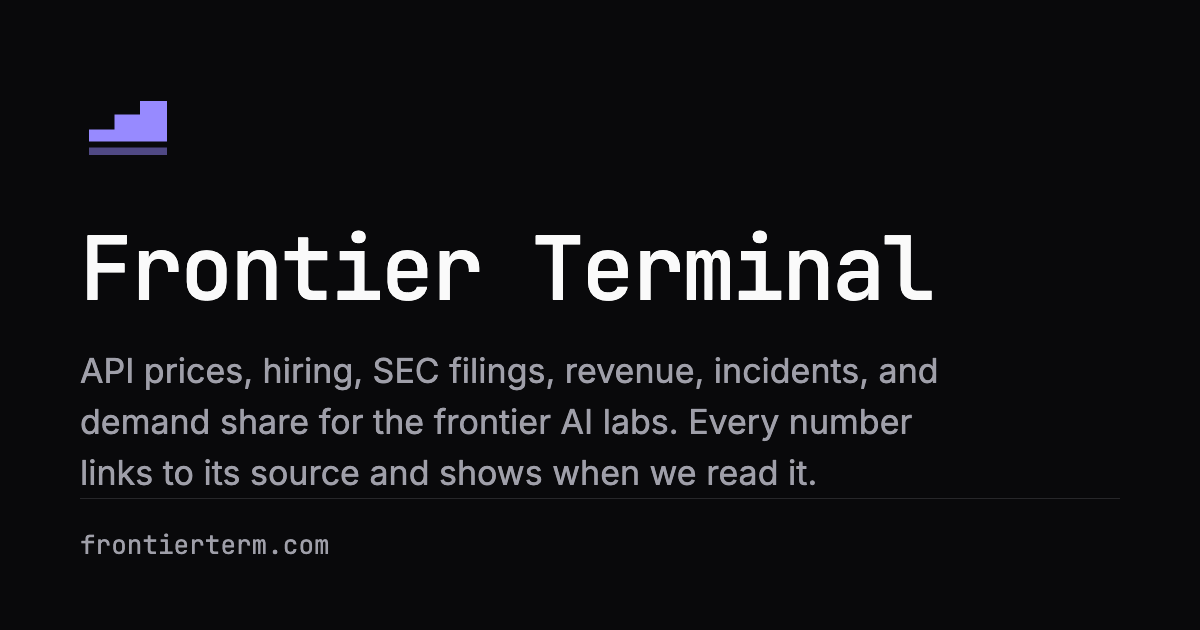
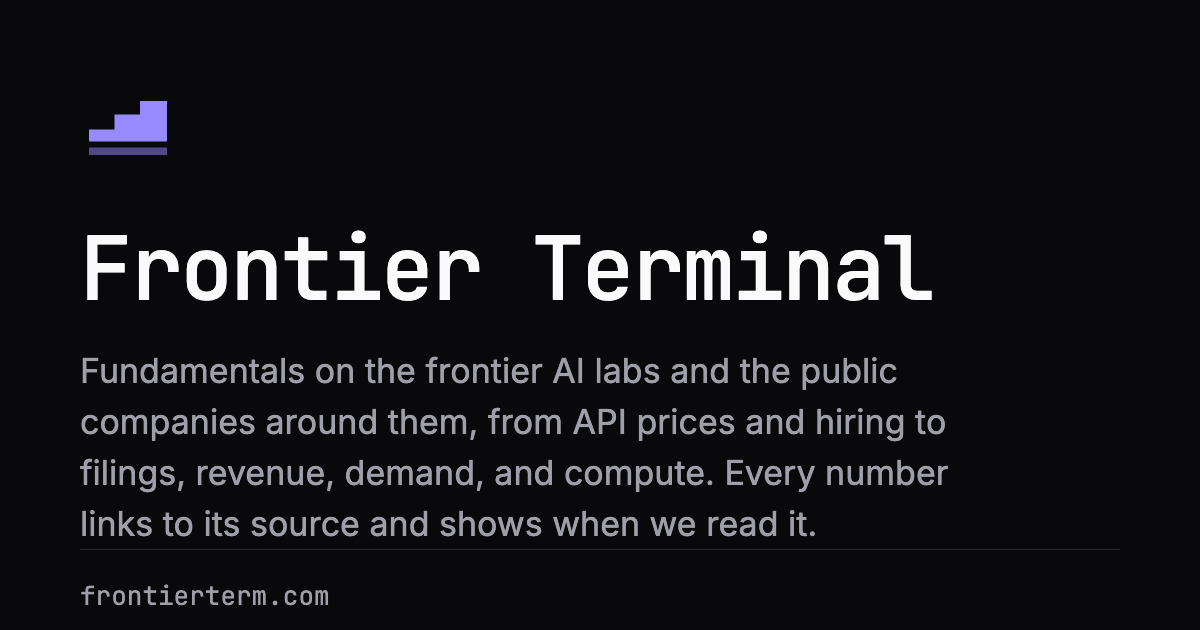
docs: describe the terminal as fundamentals on the labs, theses on top; Ground truth in the nav (#459)
The self-descriptions still said "seven axes" and framed the site as a
thesis engine. They now lead with what the site is: fundamentals on the
frontier AI labs and the public companies around them, with theses as a
layer on top. Covers appDescription (meta, llms.txt, schema.org, og.png),
the home title, About, the MCP server instructions, README, AGENTS.md and
the routines' product context. thesis-engine.md logs the reversal of
"the thesis layer is core".

Ground truth moves from the footer into the Economics menu, after Revenue.

diff --git a/layers/terminal/app/pages/about.vue b/layers/terminal/app/pages/about.vue
@@ -37,12 +37,21 @@ useSeo({
     <TerminalPanel id="what" title="What this is">
       <div class="max-w-2xl space-y-3 text-default">
         <p>
-          A free, public, read-only terminal for equity analysts who cover AI infrastructure through
-          the frontier-lab IPO wave. We track nine frontier model providers (OpenAI, Anthropic,
-          Google, xAI, Meta, Mistral, DeepSeek, Alibaba’s Qwen, and Moonshot AI’s Kimi). For each
-          one we follow API prices, hiring (including the roles that build data centers and power),
-          OpenRouter demand share and the spend share it implies at list price, status-page
-          incidents, misalignment disclosures, SEC filings, and disclosed revenue.
+          A free, public, read-only terminal of fundamentals on the frontier AI labs, for analysts
+          who cover AI infrastructure through the frontier-lab IPO wave. We track nine labs (OpenAI,
+          Anthropic, Google, xAI, Meta, Mistral, DeepSeek, Alibaba’s Qwen, and Moonshot AI’s Kimi).
+        </p>
+        <p>
+          For each lab we follow API prices, hiring (including the roles that build data centers and
+          power), SEC filings and disclosed revenue, OpenRouter demand share and the spend share it
+          implies at list price, status-page incidents and response times, and misalignment
+          disclosures.
+        </p>
+        <p>
+          Around the labs we follow the public companies tied to them. That covers hyperscaler capex
+          and backlog, who sells to and funds whom, chip and power suppliers, and GPU rental prices.
+          Ground truth scores press reports of lab revenue and deals against the filings that came
+          later.
         </p>
         <p>
           Most of these labs are still private. Until one files to go public, hiring, prices, and
@@ -54,6 +63,11 @@ useSeo({
           We check every source on a schedule, keep a copy of each page we read, and record what
           changed since the last check. Pages show what each source says now and what has changed.
           An alert only ever describes those recorded changes.
+        </p>
+        <p>
+          Theses sit on top of the data. Each one is a short argument about a company, with the
+          claims it rests on and the numbers that would break them. They’re Jeremy’s, and each shows
+          his position.
         </p>
       </div>
     </TerminalPanel>

diff --git a/layers/terminal/server/utils/mcp.ts b/layers/terminal/server/utils/mcp.ts
@@ -184,9 +184,12 @@ const PROVENANCE =
   LICENSE
 
 const INSTRUCTIONS =
-  `${MCP_SERVER_NAME}: a free, public, read-only investor terminal tracking the frontier AI labs ` +
-  '(OpenAI, Anthropic, Google, xAI, Meta, Mistral, DeepSeek, Alibaba (Qwen), Moonshot AI (Kimi)) on seven axes — API price lists, hiring boards (with the physical-infrastructure buildout cluster), ' +
-  'SEC filings and disclosed revenue, status-page incidents, misalignment disclosures, and OpenRouter demand share with its implied spend share. ' +
+  `${MCP_SERVER_NAME}: a free, public, read-only terminal of fundamentals on the frontier AI labs ` +
+  '(OpenAI, Anthropic, Google, xAI, Meta, Mistral, DeepSeek, Alibaba (Qwen), Moonshot AI (Kimi)) and the public companies around them. ' +
+  'Per lab: API price lists, hiring boards (with the physical-infrastructure buildout cluster), SEC filings and disclosed revenue, ' +
+  'status-page incidents and latency probes, misalignment disclosures, and OpenRouter demand share with its implied spend share. ' +
+  'Around the labs: hyperscaler exposure, who sells to and funds whom, suppliers, listed companies, GPU rental prices, ' +
+  'and press reports scored against later filings (get_ground_truth). Theses (on the site) are arguments built on this data. ' +
   'Not investment advice. Start with `describe` (the site map) or `get_overview` (what moved). ' +
   PROVENANCE
 

diff --git a/nuxt.config.ts b/nuxt.config.ts
@@ -561,7 +561,7 @@ export default defineNuxtConfig({
       // description — so an answer engine reads the same claim everywhere
       // rather than three paraphrases it has to reconcile.
       appDescription:
-        'API prices, hiring, SEC filings, revenue, incidents, and demand share for the frontier AI labs. Every number links to its source and shows when we read it.',
+        'Fundamentals on the frontier AI labs and the public companies around them, from API prices and hiring to filings, revenue, demand, and compute. Every number links to its source and shows when we read it.',
       // The app's canonical public origin, no trailing slash. Absolute links in
       // sitemap.xml, robots.txt, and og: tags are built from this.
       appUrl: 'http://localhost:3000',

diff --git a/app/layouts/default.vue b/app/layouts/default.vue
@@ -51,6 +51,11 @@ const GROUPS: NavGroup[] = [
         description: 'SEC filings, and what investors disclose.',
       },
       {
+        label: 'Ground truth',
+        to: '/ground-truth',
+        description: 'Press reports scored against later filings.',
+      },
+      {
         label: 'Exposure',
         to: '/exposure',
         description: 'Hyperscaler capex, backlog and lab stakes.',
@@ -88,7 +93,6 @@ const LAB_LINKS: NavLink[] = LABS.map((lab) => ({ label: LAB_DISPLAY[lab], to: l
 const REFERENCE: NavLink[] = [
   { label: 'About', to: '/about' },
   { label: 'Data', to: '/data' },
-  { label: 'Ground truth', to: '/ground-truth' },
   { label: 'License', to: '/license' },
   { label: 'Contact', to: '/contact' },
   { label: 'Privacy', to: '/about#privacy' },

diff --git a/layers/terminal/nuxt.config.ts b/layers/terminal/nuxt.config.ts
@@ -1,4 +1,4 @@
-// The terminal layer: Frontier Terminal's product code — the fetch pipeline, the thesis engine,
+// The terminal layer: Frontier Terminal's product code — the fetch pipeline, the thesis layer,
 // the query layer, the pages and components, and their tables and tests. Fork-owned: authored
 // here, not vendored, so not in layers.lock.json. Depends on core only; pipeline, theses and
 // terminal import each other, so they are one layer.

diff --git a/app/pages/index.vue b/app/pages/index.vue
@@ -112,7 +112,7 @@ useSeo({
   // 'exact' because the brand should lead on the landing page — everywhere else
   // useSeo appends `· AppName` for you.
   titleMode: 'exact',
-  title: `${config.public.appName}: sourced data on the frontier AI labs`,
+  title: `${config.public.appName}: fundamentals on the frontier AI labs`,
   description,
   dateModified: overview.data.value?.as_of,
 })

diff --git a/README.md b/README.md
@@ -1,10 +1,17 @@
 # Frontier Terminal
 
-A free, public, read-only investor terminal for the frontier AI labs (OpenAI, Anthropic, Google,
-xAI, Meta, Mistral, DeepSeek, Alibaba's Qwen, and Moonshot AI's Kimi). It tracks API price lists, hiring (including data center and
-infrastructure roles), SEC filings, disclosed revenue, status-page incidents, misalignment
-disclosures, and OpenRouter demand share with the spend share it implies. Every number links to
-the page we read it from and shows when we read it. Not investment advice.
+A free, public, read-only terminal of fundamentals on the frontier AI labs (OpenAI, Anthropic,
+Google, xAI, Meta, Mistral, DeepSeek, Alibaba's Qwen, and Moonshot AI's Kimi).
+
+For each lab it tracks API price lists, hiring (including data center and infrastructure roles),
+SEC filings and disclosed revenue, OpenRouter demand share with the spend share it implies,
+status-page incidents and latency probes, and misalignment disclosures. Around the labs it tracks
+the public companies tied to them: hyperscaler capex and backlog, the dependency graph of who
+sells to and funds whom, chip and power suppliers, and GPU rental prices. Ground truth scores
+press reports of lab revenue and deals against the filings that came later. Theses sit on top of
+the data, as short arguments with the numbers that would break them.
+
+Every number links to the page we read it from and shows when we read it. Not investment advice.
 
 Built on [nuxt-cf-template](https://github.com/Holojerm/nuxt-cf-template): Nuxt 4 and NuxtUI v4
 on Cloudflare Workers, with D1 (SQLite via Drizzle), KV, and R2. There are no accounts, sign-in,
@@ -32,7 +39,7 @@ in both color modes, and the Content-Security-Policy spec) run in GitHub Actions
 | Path | What |
 | --- | --- |
 | `layers/terminal/` | Everything the product is, as one fork-owned Nuxt layer (`app/`, `server/`, `shared/`, `test/`, and its tables in `server/db/schema.ts`). The app's own `app/`, `server/` and `shared/` hold the template's code and the few files the layer does not own. |
-| `layers/terminal/app/pages/` | The terminal pages: `prices/` (catalog and per-SKU history), `hiring.vue`, `revenue.vue`, `releases.vue`, `incidents.vue`, `rankings.vue`, `alerts/` (feed and permalinks), `data.vue` (bulk downloads), `about.vue`. The overview, `app/pages/index.vue`, stays in the app. Every page calls `useSeo()` once and declares `publicPage`. |
+| `layers/terminal/app/pages/` | The terminal pages. Per lab: `prices/` (catalog and per-SKU history), `hiring.vue`, `revenue.vue`, `releases.vue`, `incidents.vue`, `disclosures.vue`, `rankings.vue`, `labs/` (one page and tear sheet per lab), `compare/`. Around the labs: `exposure.vue`, `dependencies.vue`, `compute.vue`, `ground-truth.vue`, `filings/`. Then `alerts/` (feed and permalinks), `theses/`, `data.vue` (bulk downloads), `about.vue`. The overview, `app/pages/index.vue`, stays in the app. Every page calls `useSeo()` once and declares `publicPage`. |
 | `sources.yaml` | The source registry. One entry per candidate source with its axis, its diff mechanism, and an include or exclude verdict. Transcribed from `docs/source-audit.md`, never re-derived. |
 | `layers/terminal/server/pipeline/` | Fetch → normalize → diff → store. `parsers/` is one parser per source, `contracts/` the zod row shapes the DB mirrors, `judge/` the one writer that promotes changes to alerts and re-maps price-matrix cells whose vendor sentence changed, `scopes.ts` which sources a given run covers. |
 | `layers/terminal/server/api/` | The read-only JSON API: `overview`, `prices` (+ `prices/[key]`), `hiring` (+ `hiring/history`), `revenue`, `releases`, `incidents`, `rankings`, `spend`, `alerts` (+ `alerts/[id]`), `coverage`, `theses`. Plus `health`, `status`, and `fleet` (the ops contract), and `judge/`, bearer-gated, the only route that writes. |
@@ -42,7 +49,7 @@ in both color modes, and the Content-Security-Policy spec) run in GitHub Actions
 | `fixtures/` | A captured copy of every source, with fetch timestamps and trim notes in `fixtures/manifest.json`, so the parsers are tested against the real bytes without the network. |
 | `scripts/check-*.ts` | The gates in `bun run ci`: design tokens, brand assets, references, SEO, fleet manifest, cron parity. |
 | `layers/terminal/server/theses/` | The thesis layer: each thesis's claims and kill conditions (`anthropic.ts`), the recipes that read non-lab companies' public sources (`recipes/`), the measured signals that read the store, the judged claims' candidates and verdict gate, the pure status rules, the evaluator the survey cron runs after each run, and the weekly digest (`theses:digest`, Mondays 13:00 UTC). |
-| `docs/` | `source-audit.md` lists every candidate source, fetched and judged, with the reason for each exclusion. `thesis-engine.md` is the plan to grow the terminal into a thesis engine, with the lab thesis as the first one. |
+| `docs/` | `source-audit.md` lists every candidate source, fetched and judged, with the reason for each exclusion. `thesis-engine.md` is the plan for the thesis layer, the arguments that sit on top of the terminal's data. |
 
 ## Deploy
 

diff --git a/docs/thesis-engine.md b/docs/thesis-engine.md
@@ -11,7 +11,7 @@ Frontier Terminal is the engine, and its first thesis is Anthropic, read off the
 ## Decisions
 
 - **Frontier Terminal is the engine.** Anthropic is the first thesis; new theses join the same app, not a new one.
-- **The thesis layer is core.** Datasets exist to test claims, not as a product on their own.
+- **The thesis layer is core.** Datasets exist to test claims, not as a product on their own. *Reversed 2026-11-19: the terminal's data is the product and theses sit on top (see [Revisions](#revisions)).*
 - **Signals can be measured or judged.** A number from a recipe, or an LLM verdict on grounded change rows, as Frontier Terminal's judge already does.
 - **No public-company line.** Private companies count; the frontier labs are already among the largest. One size floor applies to all.
 - **The size floor is a $10B valuation:** market cap for a public company, the last priced round for a private one. It applies to the thesis's company, not its comparison set.
@@ -126,6 +126,12 @@ Why: revenue can come from the history and from terms, without closing anything.
 - No page, `/llms.txt` line, or API message offers a paid license, an API key, the licensed S3 bucket, or webhooks. `/contact` is for corrections and press.
 - The license split above stays. The last 90 days are CC BY 4.0, and the full history is CC BY-NC 4.0, for non-commercial use only.
 - The key code stays in place, unadvertised. A key issued before the pause works until it expires, and none is issued during it.
+
+**2026-11-19: the terminal is the product, and theses are a layer on top.** Frontier Terminal is a terminal of fundamentals on the frontier AI labs and the public companies tied to them. Theses are the retail-facing angle, built on that data.
+
+- New datasets earn their place as fundamentals on a lab or a company around it. They don't need a claim to test.
+- Theses keep the rules above: kill conditions written first, a position disclosure, and a digest that leads with what counts against them.
+- The README, `AGENTS.md`, the About page, `/llms.txt` and the MCP server's instructions describe the terminal first and theses second.
 
 ## Risks
 

diff --git a/AGENTS.md b/AGENTS.md
@@ -5,11 +5,14 @@ It is the **index**, deliberately kept small: it loads into every session, so
 anything that is not needed on every task lives in [`.claude/docs/`](.claude/docs/)
 and is read on demand.
 
-Frontier Terminal is a free, public, read-only data site: an investor terminal tracking
-the frontier AI labs (OpenAI, Anthropic, Google, xAI, Meta, Mistral, DeepSeek, Alibaba (Qwen), Moonshot AI (Kimi)) on seven axes — API price lists,
-hiring, SEC filings, disclosed revenue, status-page incidents, misalignment disclosures,
-and OpenRouter demand share. No accounts, no sign-in, no payments. Every datum carries its source URL and
-fetch timestamp.
+Frontier Terminal is a free, public, read-only terminal of fundamentals on the frontier AI
+labs (OpenAI, Anthropic, Google, xAI, Meta, Mistral, DeepSeek, Alibaba (Qwen), Moonshot AI (Kimi)).
+Per lab: API price lists, hiring, SEC filings and disclosed revenue, status-page incidents and
+latency probes, misalignment disclosures, and OpenRouter demand share. Around the labs: the
+public companies tied to them (exposure, dependencies, suppliers, listed companies), compute
+(GPU prices, data-center power), and ground truth (press reports scored against later filings).
+The terminal's data is the product. Theses are a layer on top, the retail-facing angle. No
+accounts, no sign-in, no payments. Every datum carries its source URL and fetch timestamp.
 
 ---
 

diff --git a/.claude/routines/routines.config.md b/.claude/routines/routines.config.md
@@ -37,10 +37,11 @@ fixes). The paths are globs, and the fix may touch nothing else.
 
 ## Product context
 
-Frontier Terminal is a free, public, read-only investor terminal tracking the frontier AI
-labs — OpenAI, Anthropic, Google, xAI, Meta, Mistral, DeepSeek, Alibaba (Qwen), Moonshot AI
-(Kimi) — on seven axes: API prices, hiring, SEC filings, disclosed revenue, status-page
-incidents, misalignment disclosures and OpenRouter demand share.
+Frontier Terminal is a free, public, read-only terminal of fundamentals on the frontier AI
+labs (OpenAI, Anthropic, Google, xAI, Meta, Mistral, DeepSeek, Alibaba (Qwen), Moonshot AI
+(Kimi)) and the public companies around them. Per lab it tracks API prices, hiring, SEC
+filings, disclosed revenue, status-page incidents, misalignment disclosures and OpenRouter
+demand share.
 The three below carry most of the judge's signal. **Pricing**: each lab's published
 API price list, parsed into one row per model and tier (input, cached input, output per
 million tokens; context window; promo windows as their own rows). **Hiring**: the labs' own
